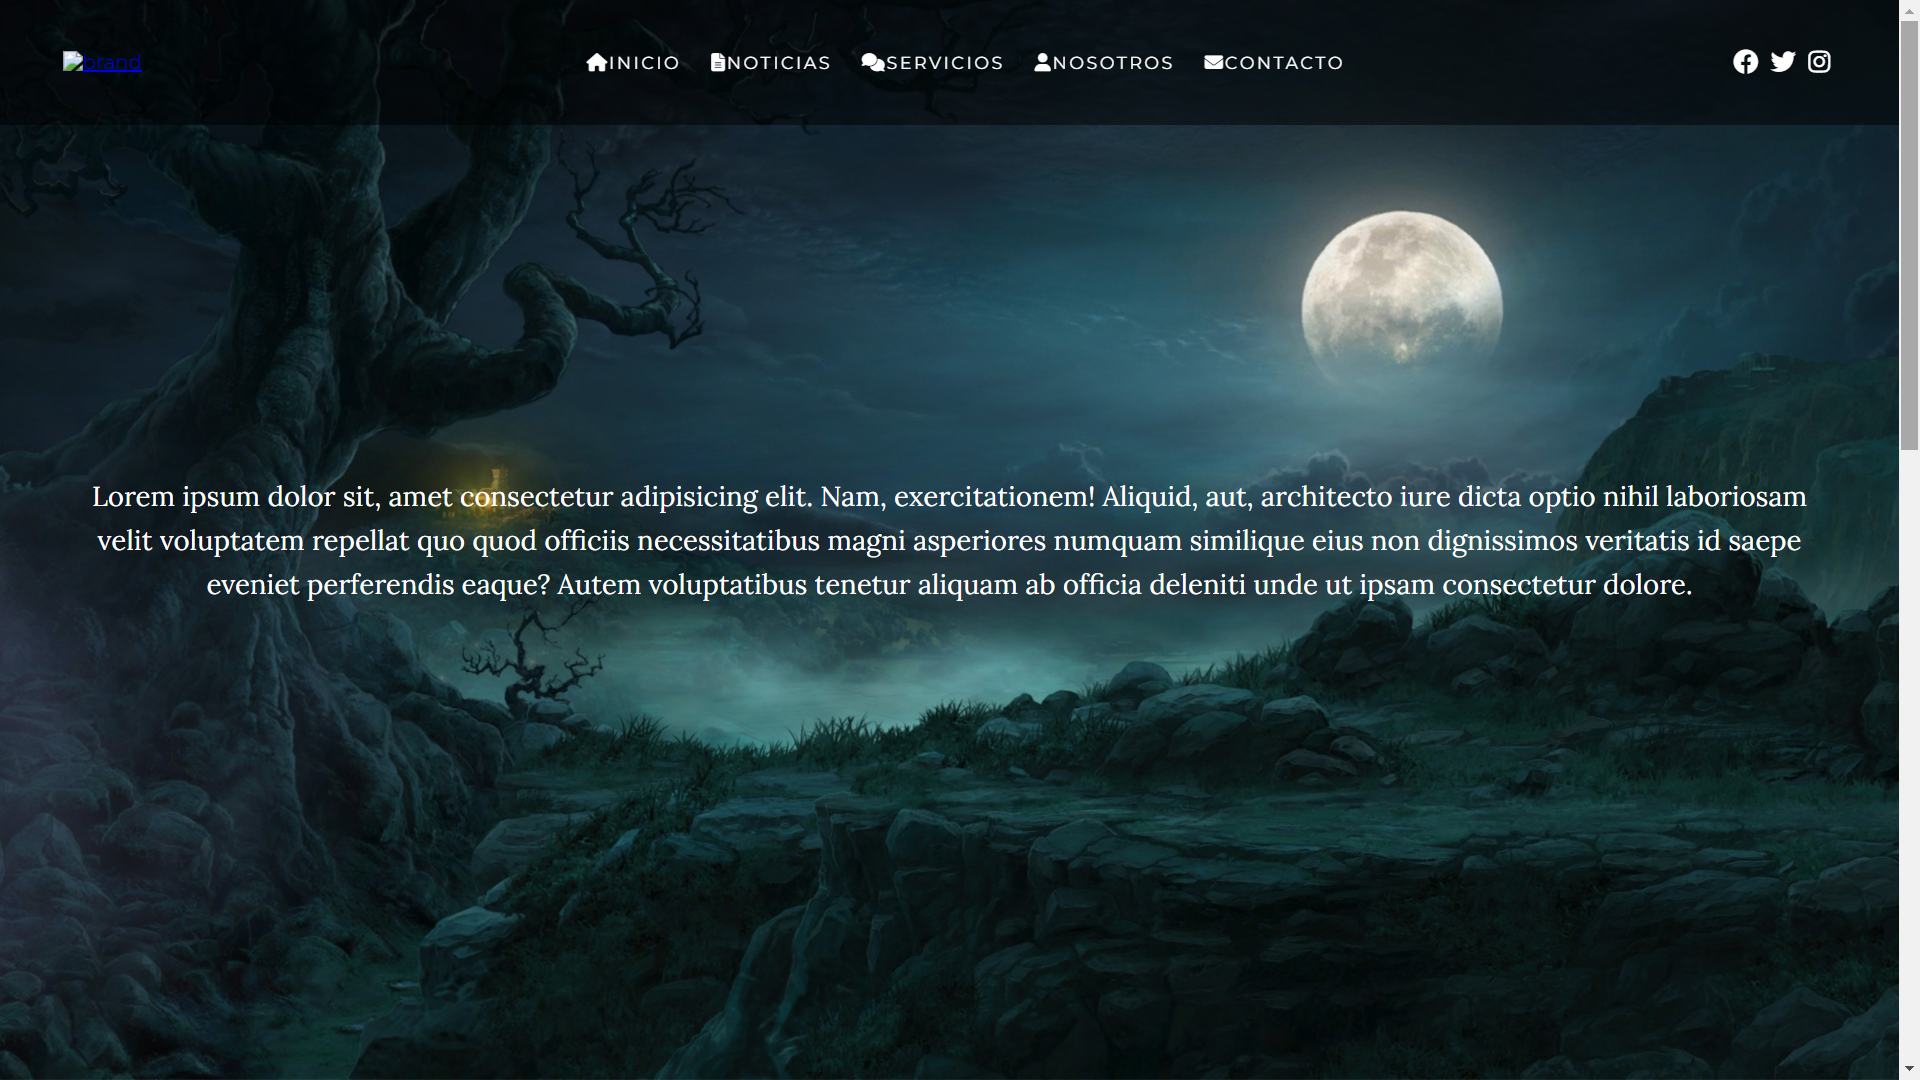
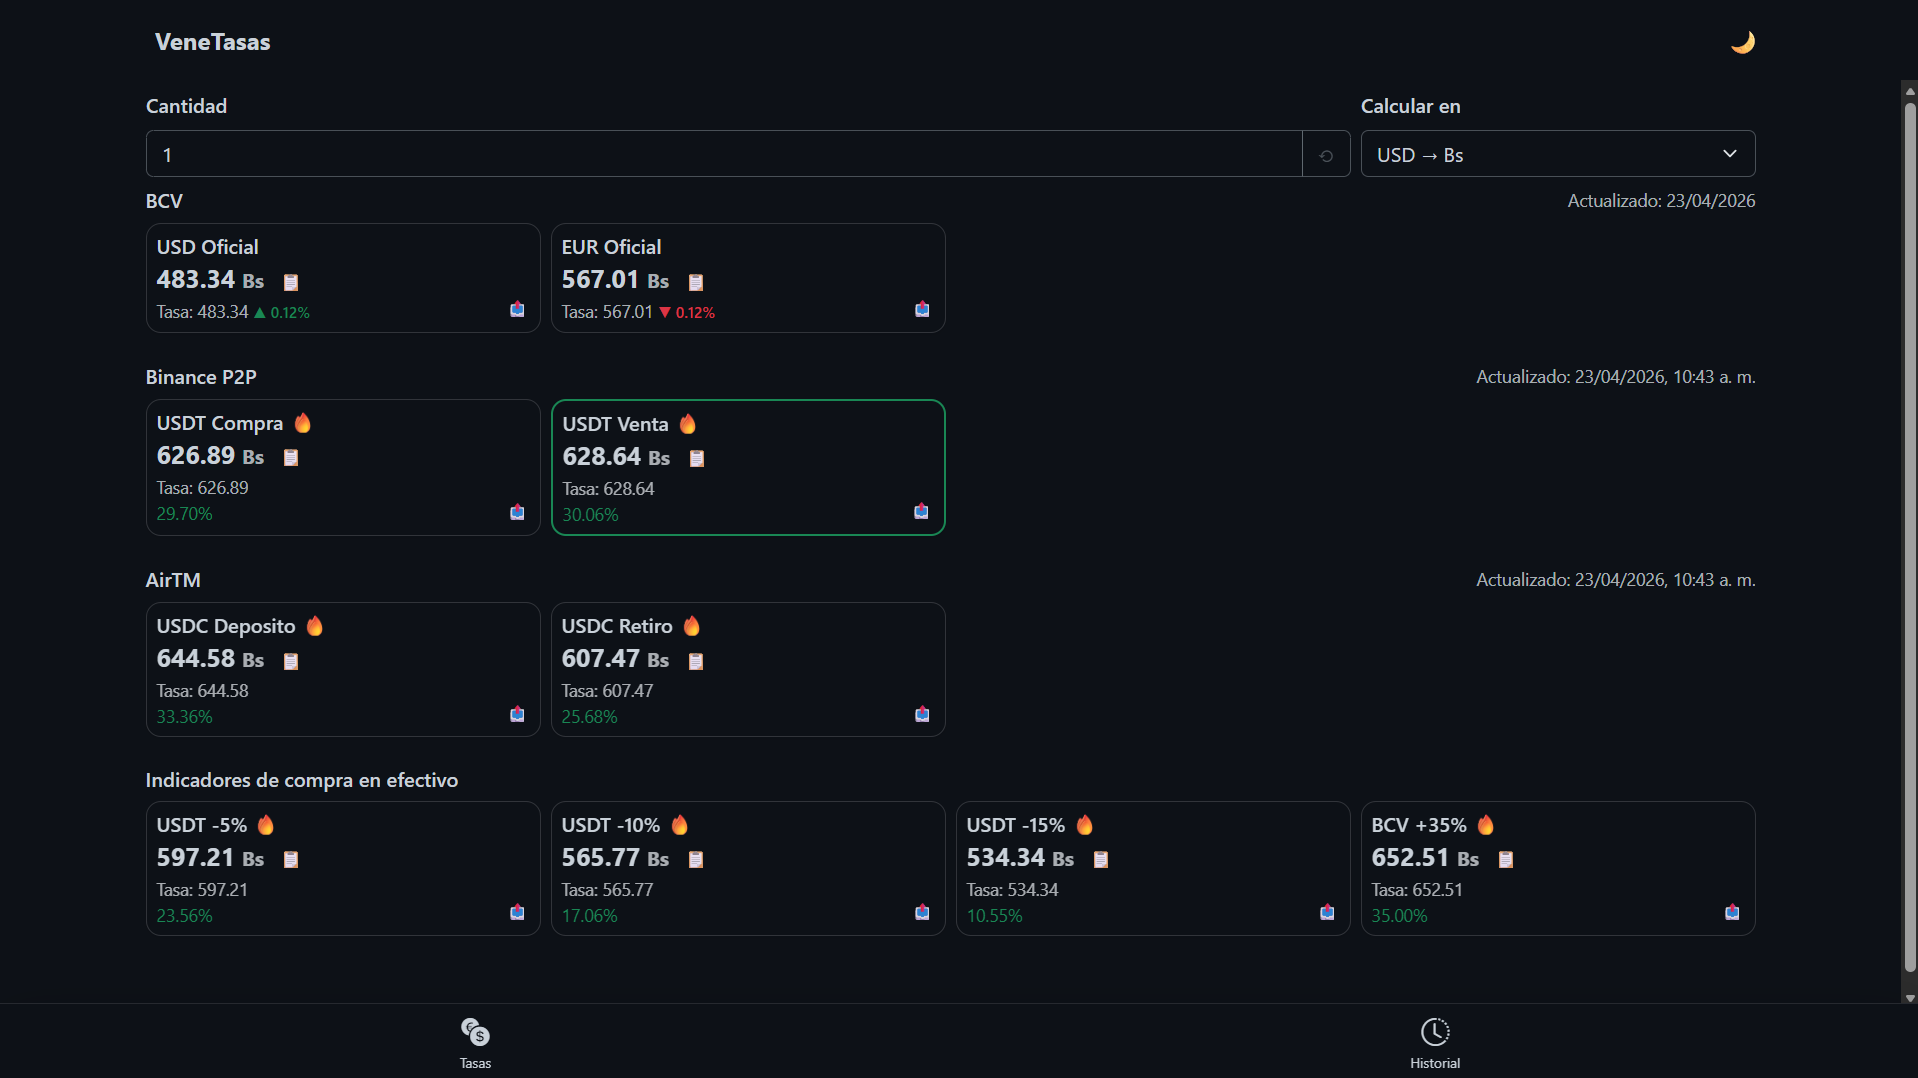
add new projects: Manservind C.A. and Venetasas; update project descriptions

diff --git a/js/proyects.js b/js/proyects.js
@@ -7,6 +7,22 @@ const projects = [
         demo: "",
         technologies: ["HTML", "CSS", "JavaScript", "Vuejs"],
     },*/
+    p5 = {
+        name: "Manservind C.A.",
+        subtitle: "Landing page",
+        preview: "p1.png",
+        github: "",
+        demo: "https://manservind.com/",
+        technologies: ["Astro", "CSS", "JavaScript"],
+    },
+    p6 = {
+        name: "Venetasas",
+        subtitle: "Venezuelan currency exchange rates calculator",
+        preview: "p3.png",
+        github: "",
+        demo: "http://venetasas.netlify.app/",
+        technologies: ["Vuejs", "Bootstrap"],
+    },
     p1 = {
         name: "Tetris",
         subtitle: "Tetris Classic in JS",
@@ -23,38 +39,22 @@ const projects = [
         demo: "https://beatricebot.onrender.com/",
         technologies: ["HTML", "CSS", "Nodejs", "Expressjs", "MongoDB", "Dialogflow ES"],
     },
-    p3 = {
-        name: "E-commerce",
-        subtitle: "E-commerce template",
-        preview: "p2.png",
-        github: "https://github.com/SindromeDeLuis/E-commerce",
-        demo: "https://sindromedeluis.github.io/E-commerce/",
-        technologies: ["HTML", "CSS", "JavaScript"],
-    },
     p4 = {
         name: "Gestor de Trabajos de Grado",
-        subtitle: "Gestor de Trabajos de Grado para la Universidad José Antonio Páez",
+        subtitle: "Degree Thesis Manager for the José Antonio Páez University",
         preview: "p5.png",
         github: "https://github.com/SindromeDeLuis/gestor-tesis-ujap",
         demo: "https://www.flipsnack.com/BEBBD966AED/new-flipbook.html",
         technologies: ["Vuejs", "Bootstrap", "PHP", "Laravel", "MySQL"],
     },
-    p5 = {
-        name: "Club de Tae Kwon Do Valle de San Diego",
-        subtitle: "Website",
-        preview: "p1.png",
-        github: "https://github.com/SindromeDeLuis/tae-kwon-do-san-diego",
-        demo: "https://sindromedeluis.github.io/tae-kwon-do-san-diego/",
+    p3 = {
+        name: "E-commerce",
+        subtitle: "Template",
+        preview: "p2.png",
+        github: "https://github.com/SindromeDeLuis/E-commerce",
+        demo: "https://sindromedeluis.github.io/E-commerce/",
         technologies: ["HTML", "CSS", "JavaScript"],
-    },
-    p6 = {
-        name: "News/blog template",
-        subtitle: "Website",
-        preview: "p3.png",
-        github: "https://github.com/SindromeDeLuis/news-blog",
-        demo: "https://sindromedeluis.github.io/news-blog/",
-        technologies: ["HTML", "CSS", "JavaScript"],
-    },
+    }
 ]
 
 const projectList = document.querySelector("#projects-gallery")